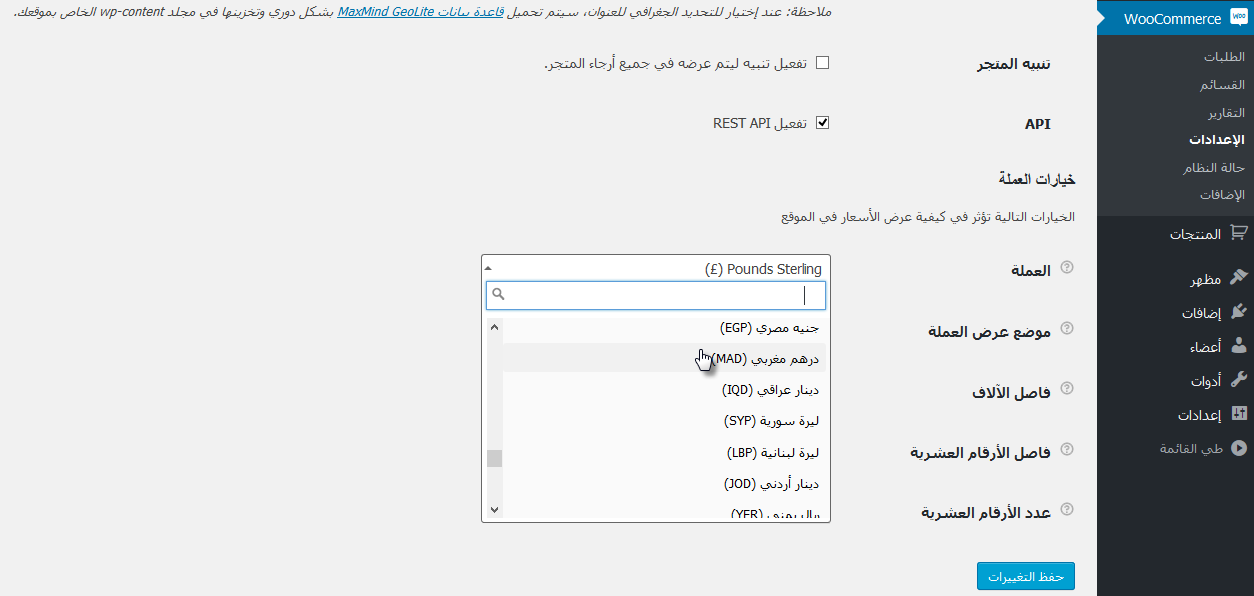
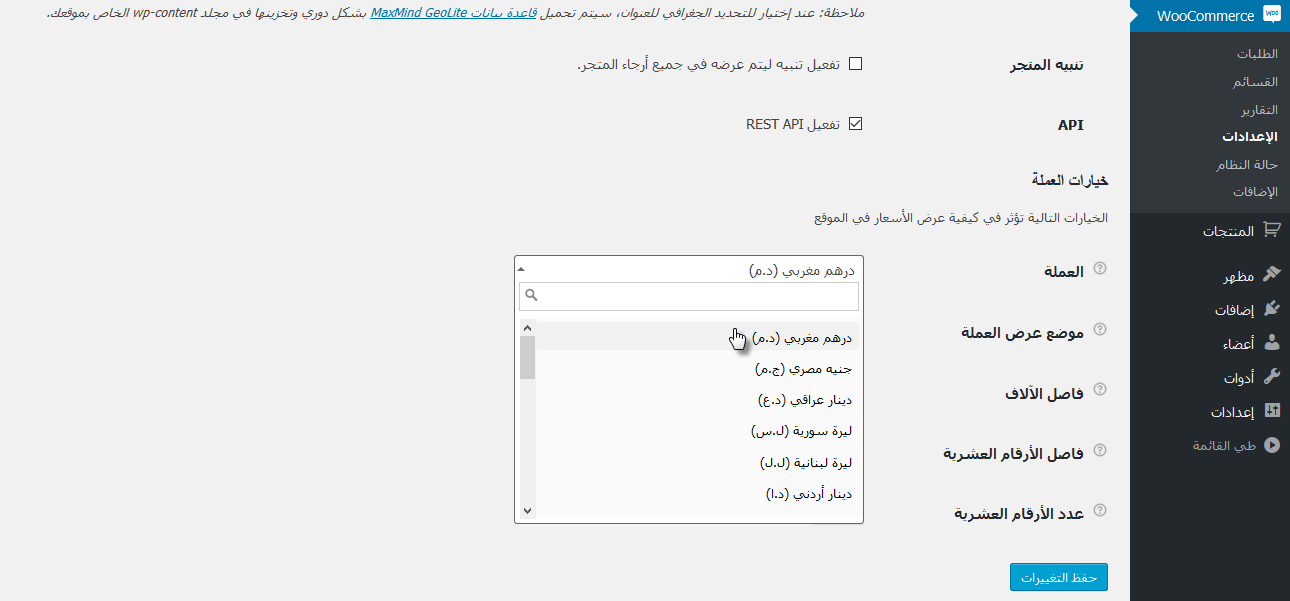
Update Arabic translation and the Screenshot
git-svn-id: https://plugins.svn.wordpress.org/woocommerce-arabic-currencies/trunk@1216803 b8457f37-d9ea-0310-8a92-e5e31aec5664

diff --git a/woocommerce-ac.php b/woocommerce-ac.php
@@ -3,7 +3,7 @@
  * Plugin Name: WooCommerce Arabic Currencies
  * Plugin URI: 
  * Description: This plugin for add custom currencies to woocommerce but for arabic currencies.
- * Version: 1.1.0
+ * Version: 1.1.1
  * Author: Said El Bakkali
  * Author URI: http://saidelbakkali.com/
  * Text Domain: wc_ac
@@ -33,7 +33,7 @@ add_filter( 'woocommerce_currencies', 'wc_ac_remove_currencies' );
   }
   
     /**
-     * Remove all currency symbols
+     * Remove all not arabic currency symbols
      */
 
   add_filter('woocommerce_currency_symbol', 'wc_ac_remove_currencies_symbol', 10, 2);
